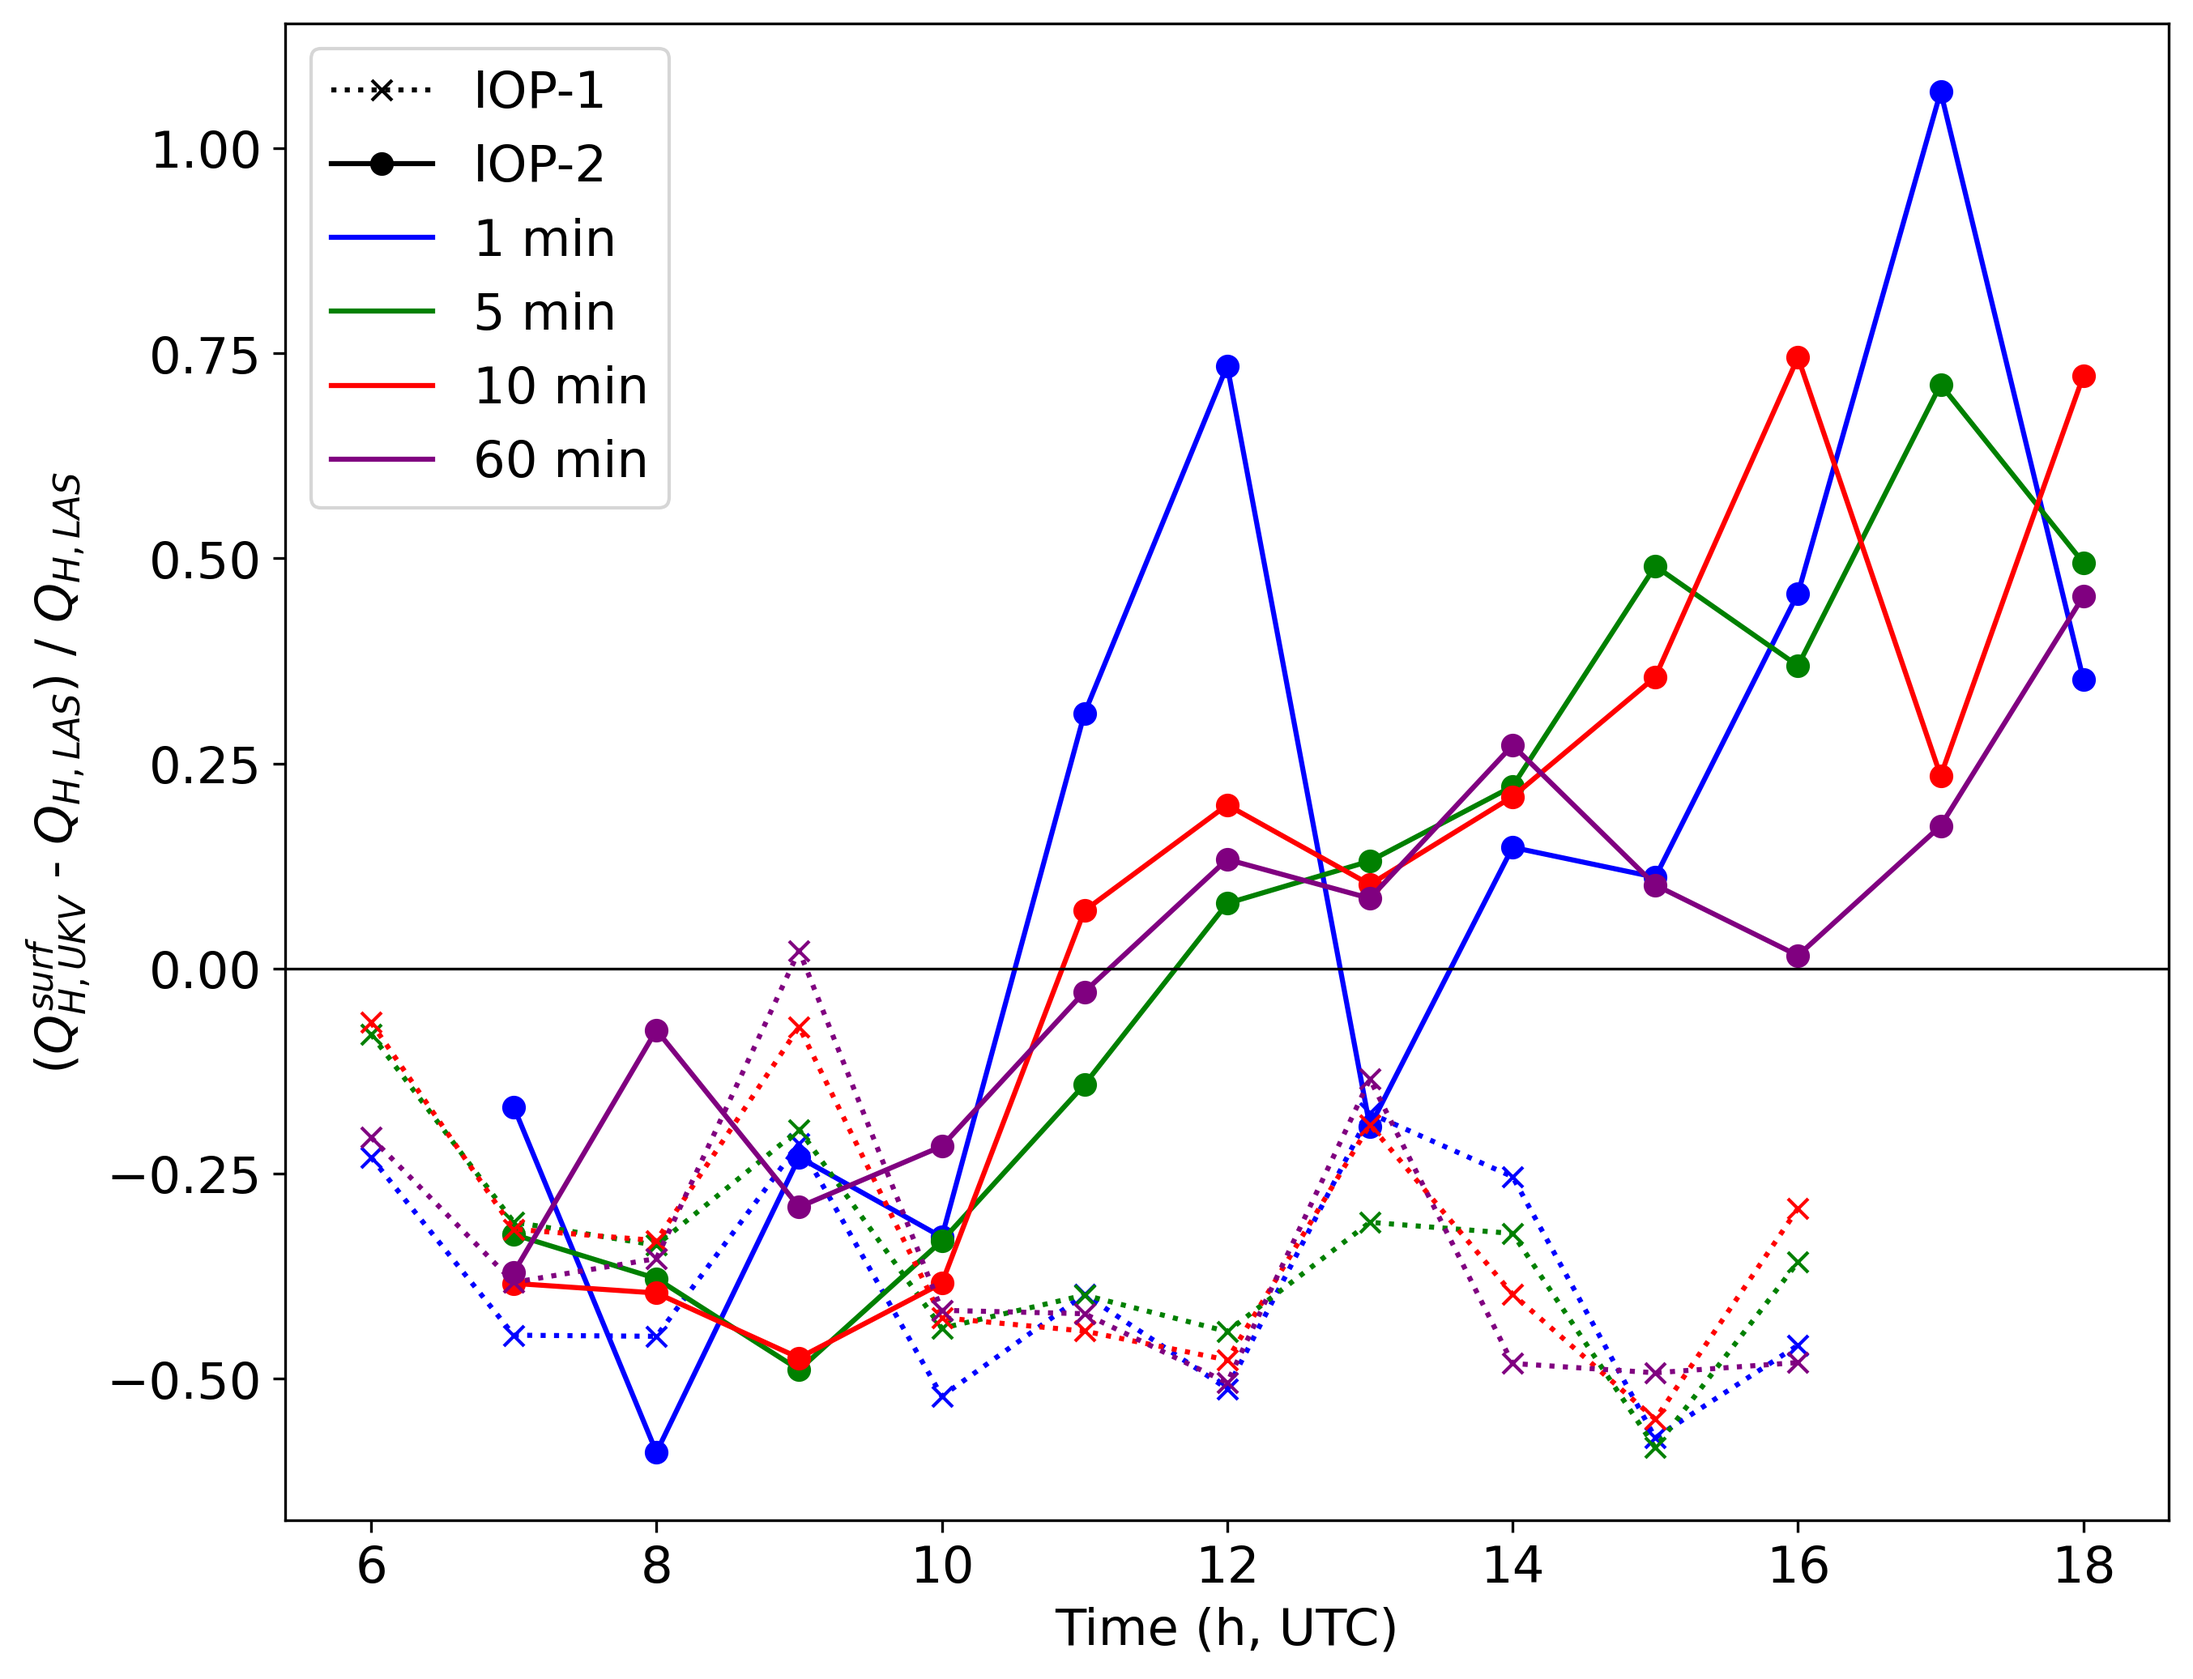
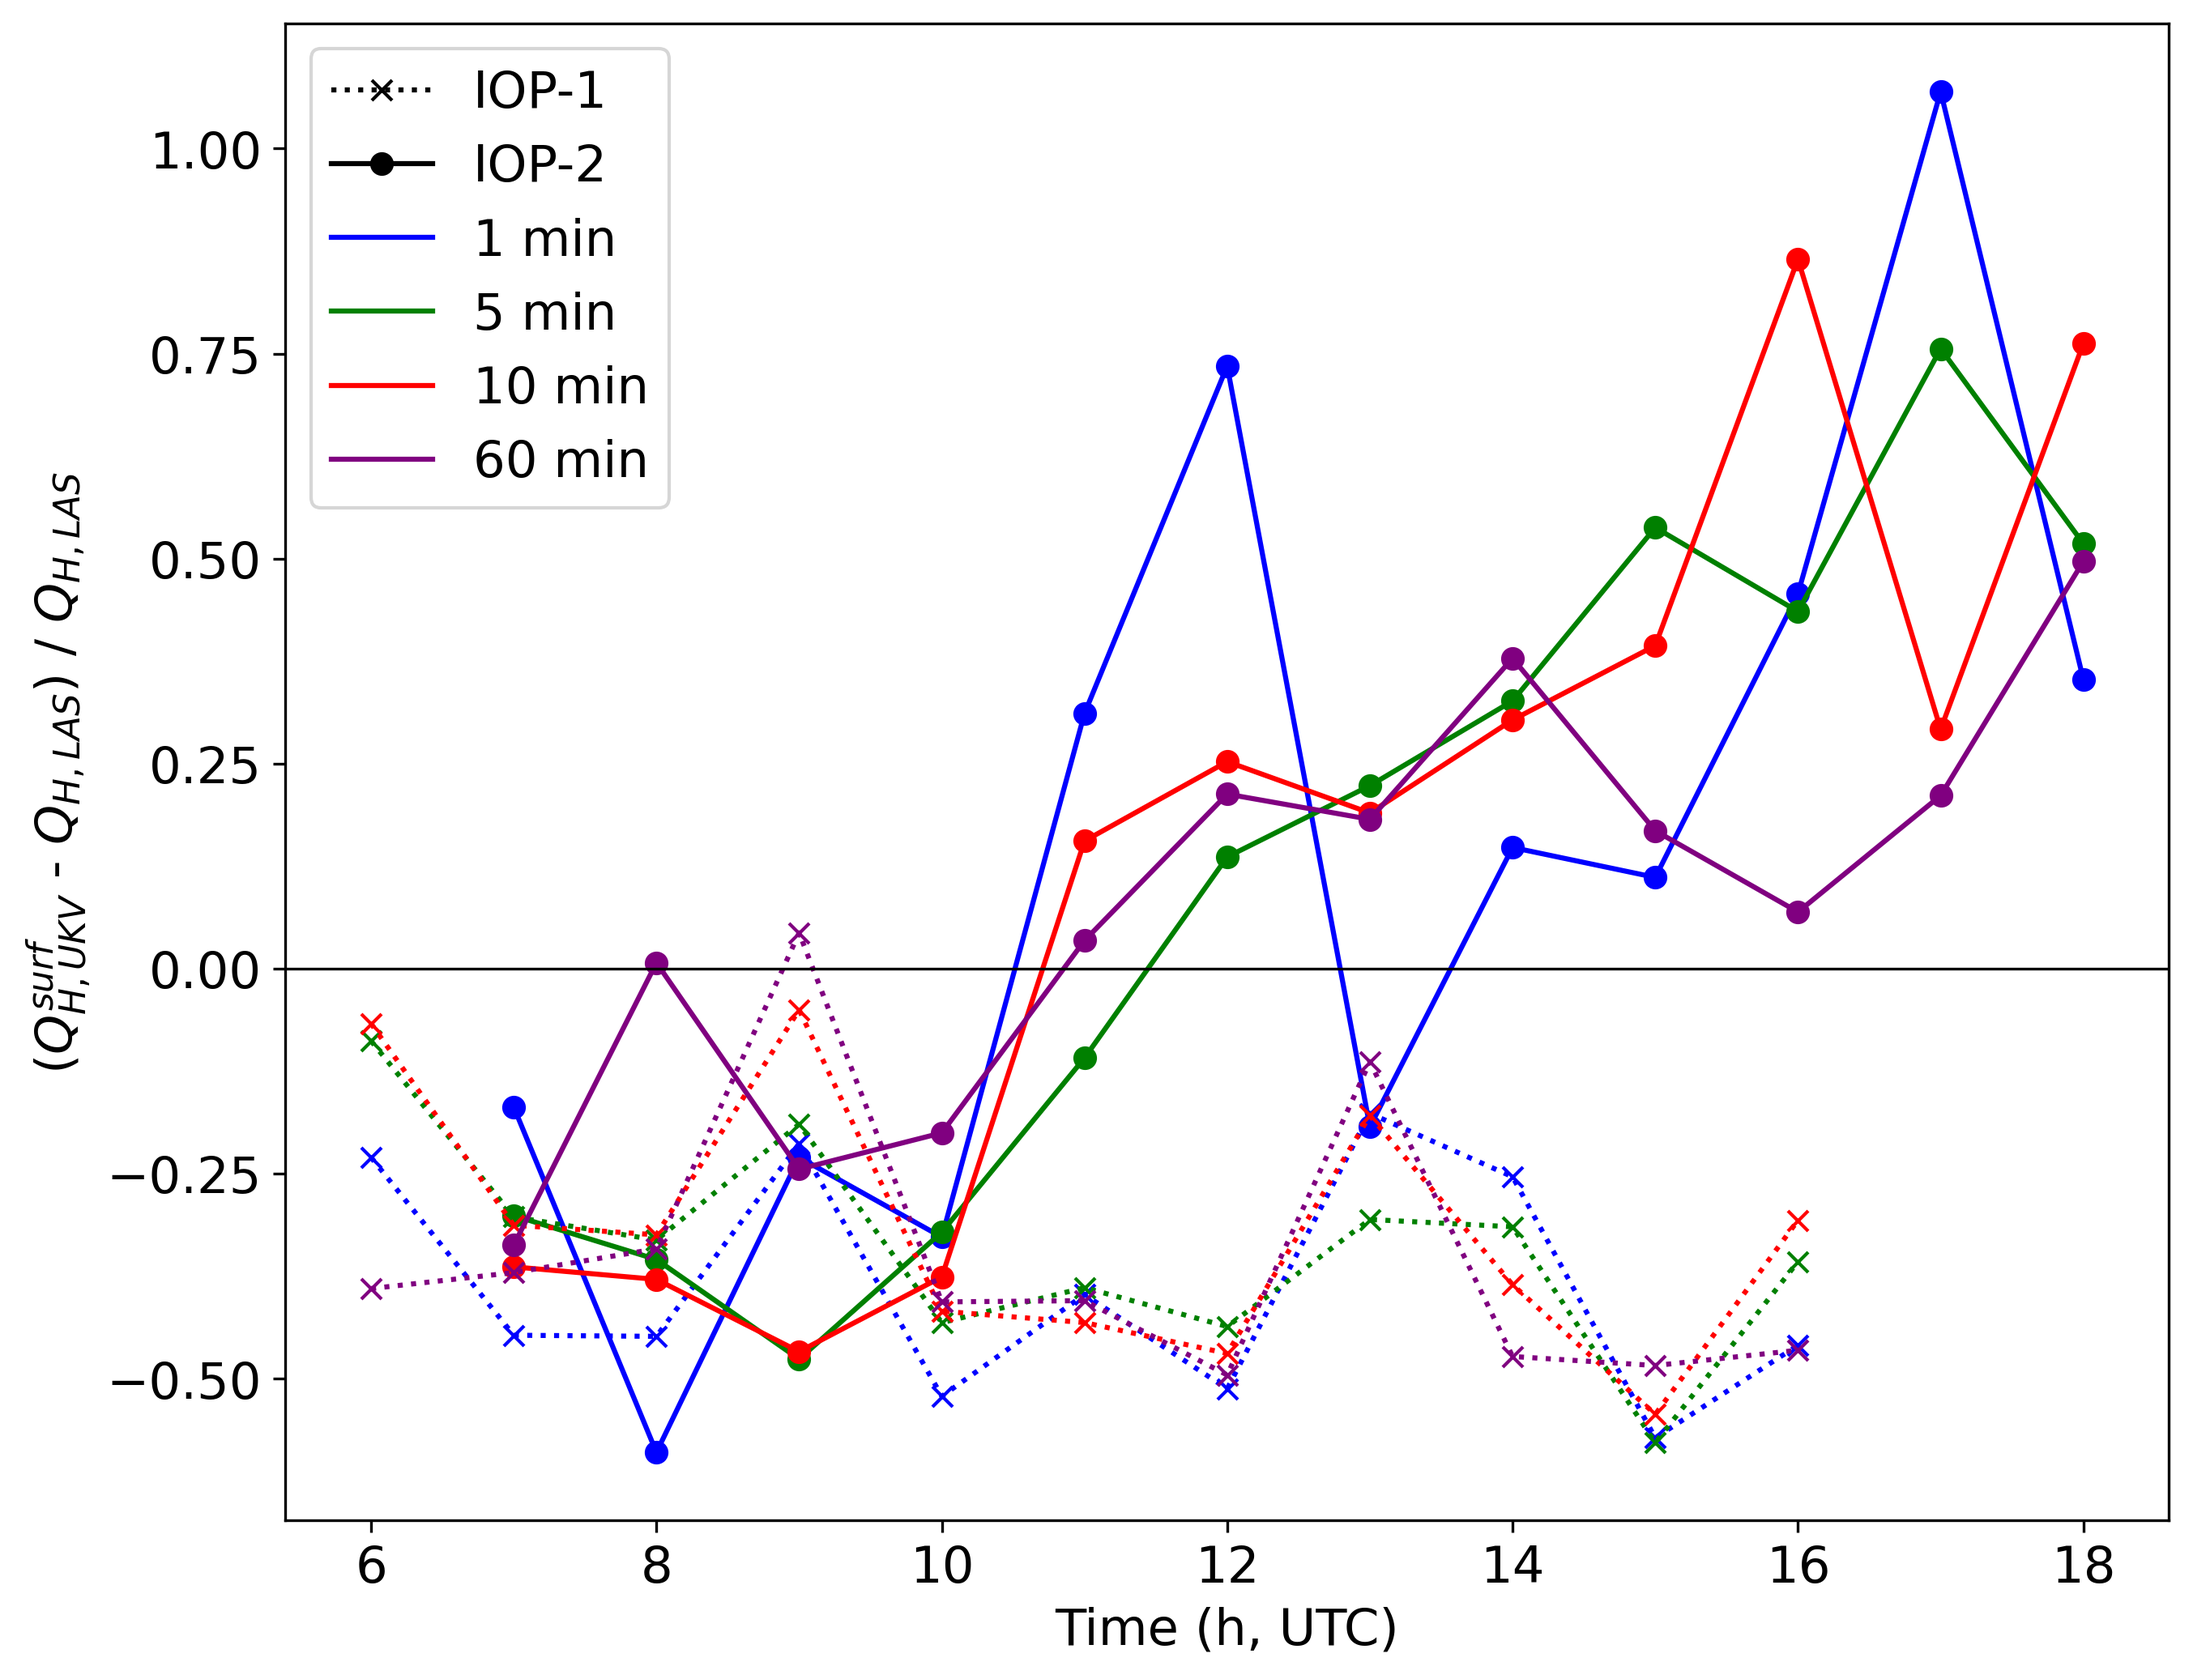
Rerun with new obs & add new fun for combining obs averages

diff --git a/scint_plots/model_performance/main_model_performance.py b/scint_plots/model_performance/main_model_performance.py
@@ -2,6 +2,8 @@ from scint_flux.functions import read_calculated_fluxes
 from scint_flux import look_up
 from scint_plots.tools.preprocessed_UKV_csvs import UKV_lookup
 
+from scint_plots.tools import combine_obs_averages
+
 from model_eval_tools.retrieve_UKV import retrieve_ukv_vars
 
 from scint_plots.model_performance import model_performance_funs
@@ -17,16 +19,38 @@ DOY_dict = {}
 
 for DOY in DOY_list:
     # read the observations
-    df = read_calculated_fluxes.extract_data(doy_list=[DOY],
-                                             pair_id=pair_id,
-                                             var_list=var_list,
-                                             time_res=time_res)
+    # 1 min
+    df_1 = read_calculated_fluxes.extract_data(doy_list=[DOY],
+                                               pair_id=pair_id,
+                                               var_list=var_list,
+                                               time_res=time_res + '_PERIOD_VAR_' + str(1))
+
+    # 5 min
+    df_5 = read_calculated_fluxes.extract_data(doy_list=[DOY],
+                                               pair_id=pair_id,
+                                               var_list=var_list,
+                                               time_res=time_res + '_PERIOD_VAR_' + str(5))
+
+    # 10 min
+    df_10 = read_calculated_fluxes.extract_data(doy_list=[DOY],
+                                                pair_id=pair_id,
+                                                var_list=var_list,
+                                                time_res=time_res + '_PERIOD_VAR_' + str(10))
+
+    # 60 min
+    df_60 = read_calculated_fluxes.extract_data(doy_list=[DOY],
+                                                pair_id=pair_id,
+                                                var_list=var_list,
+                                                time_res='1min' + '_PERIOD_VAR_' + str(60))
+
+    df = combine_obs_averages.combine([df_1, df_5, df_10, df_60])
 
     run_details = {'variable': 'H',
                    'run_time': '21Z',
                    'scint_path': scint_path,
-                   'grid_number': UKV_lookup.scint_UKV_grid_choices[pair_id][1],  # this is only used if sa_analysis is set to False
-                   'target_height': df.z_f.mean()}
+                   'grid_number': UKV_lookup.scint_UKV_grid_choices[pair_id][1],
+                   # this is only used if sa_analysis is set to False
+                   'target_height': df_1.z_f.mean()}
 
     # get model sensible heat
     ukv_data_dict_QH = retrieve_ukv_vars.retrieve_UKV(run_choices=run_details, DOYstart=DOY, DOYstop=DOY)

diff --git a/scint_plots/model_performance/model_performance_funs.py b/scint_plots/model_performance/model_performance_funs.py
@@ -21,10 +21,10 @@ def plot_difference(DOY_dict):
         UKV = DOY_dict[DOY]['UKV_QH'].WAverage
 
         # time average the observations
-        obs_av = read_calculated_fluxes.time_averages_of_obs(obs, 'QH', on_hour=True)
+        # obs_av = read_calculated_fluxes.time_averages_of_obs(obs, 'QH', on_hour=True)
 
         # combine obs and model
-        df = pd.concat([obs_av, UKV.rename('UKV')], axis=1).dropna()
+        df = pd.concat([obs, UKV.rename('UKV')], axis=1).dropna()
 
         # take differences
         df['diff_1'] = (df.UKV - df.obs_1) / np.abs(df.obs_1)
@@ -52,7 +52,8 @@ def plot_difference(DOY_dict):
     plt.plot(DOY_df_dict[2016126].index.hour, DOY_df_dict[2016126].diff_1, marker='o', color='blue')
 
     # 5 mins
-    plt.plot(DOY_df_dict[2016123].index.hour, DOY_df_dict[2016123].diff_5, marker='x', color='green', linestyle='dotted')
+    plt.plot(DOY_df_dict[2016123].index.hour, DOY_df_dict[2016123].diff_5, marker='x', color='green',
+             linestyle='dotted')
     plt.plot(DOY_df_dict[2016126].index.hour, DOY_df_dict[2016126].diff_5, marker='o', color='green')
 
     # 10 mins
@@ -60,7 +61,8 @@ def plot_difference(DOY_dict):
     plt.plot(DOY_df_dict[2016126].index.hour, DOY_df_dict[2016126].diff_10, marker='o', color='red')
 
     # 60 mins
-    plt.plot(DOY_df_dict[2016123].index.hour, DOY_df_dict[2016123].diff_60, marker='x', color='purple', linestyle='dotted')
+    plt.plot(DOY_df_dict[2016123].index.hour, DOY_df_dict[2016123].diff_60, marker='x', color='purple',
+             linestyle='dotted')
     plt.plot(DOY_df_dict[2016126].index.hour, DOY_df_dict[2016126].diff_60, marker='o', color='purple')
 
     # plt.gcf().autofmt_xdate()

diff --git a/scint_plots/tools/combine_obs_averages.py b/scint_plots/tools/combine_obs_averages.py
@@ -1,0 +1,23 @@
+import numpy as np
+import pandas as pd
+
+
+def combine(df_list, on_hour=True):
+    new_df_list = []
+
+    for df in df_list:
+
+        time_delta = df.index[1] - df.index[0]
+        minutes = time_delta.seconds // 60
+
+        df_QH = df.QH
+        df_QH.name = 'obs_' + str(minutes)
+
+        if on_hour == True:
+            df_QH = df_QH.iloc[np.where([i.minute == 0 for i in df_QH.index])[0]]
+
+        new_df_list.append(df_QH)
+
+    combine_df = pd.concat(new_df_list, axis=1).dropna()
+
+    return combine_df
